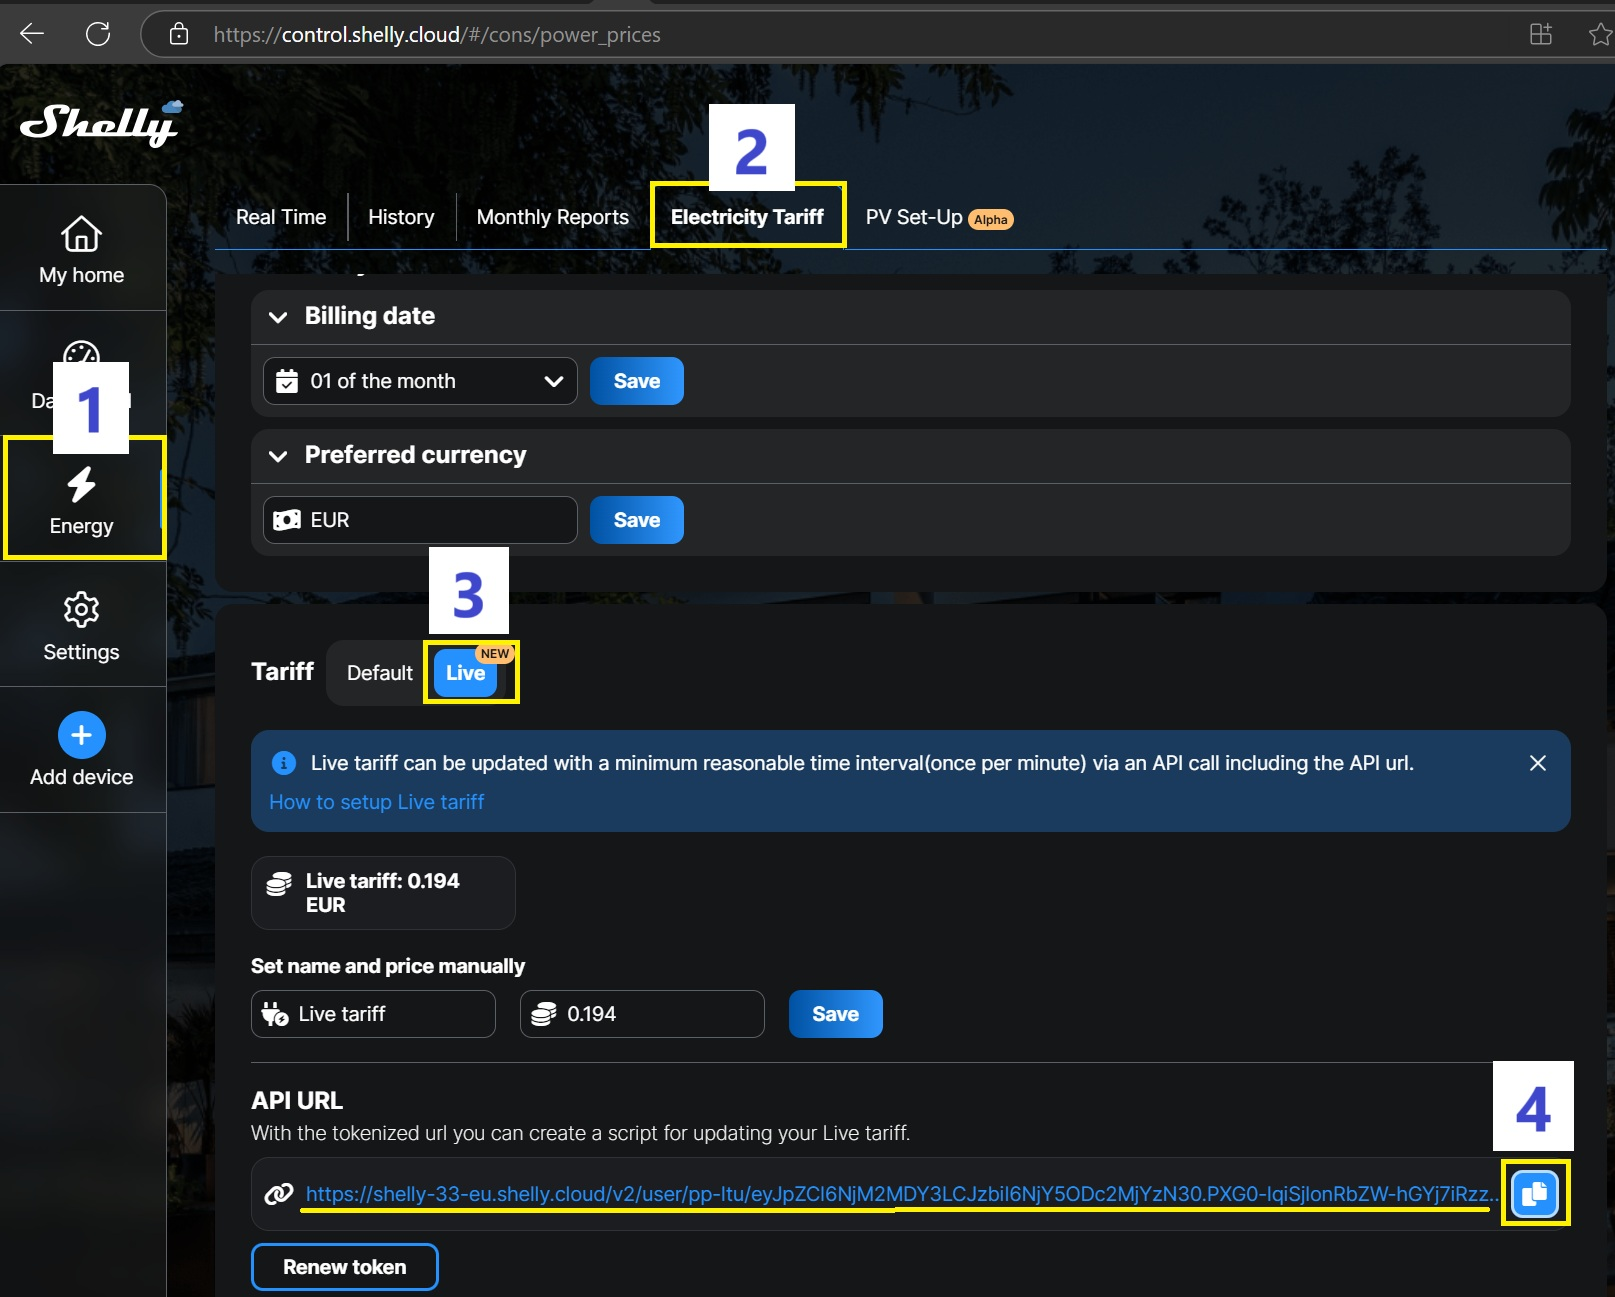
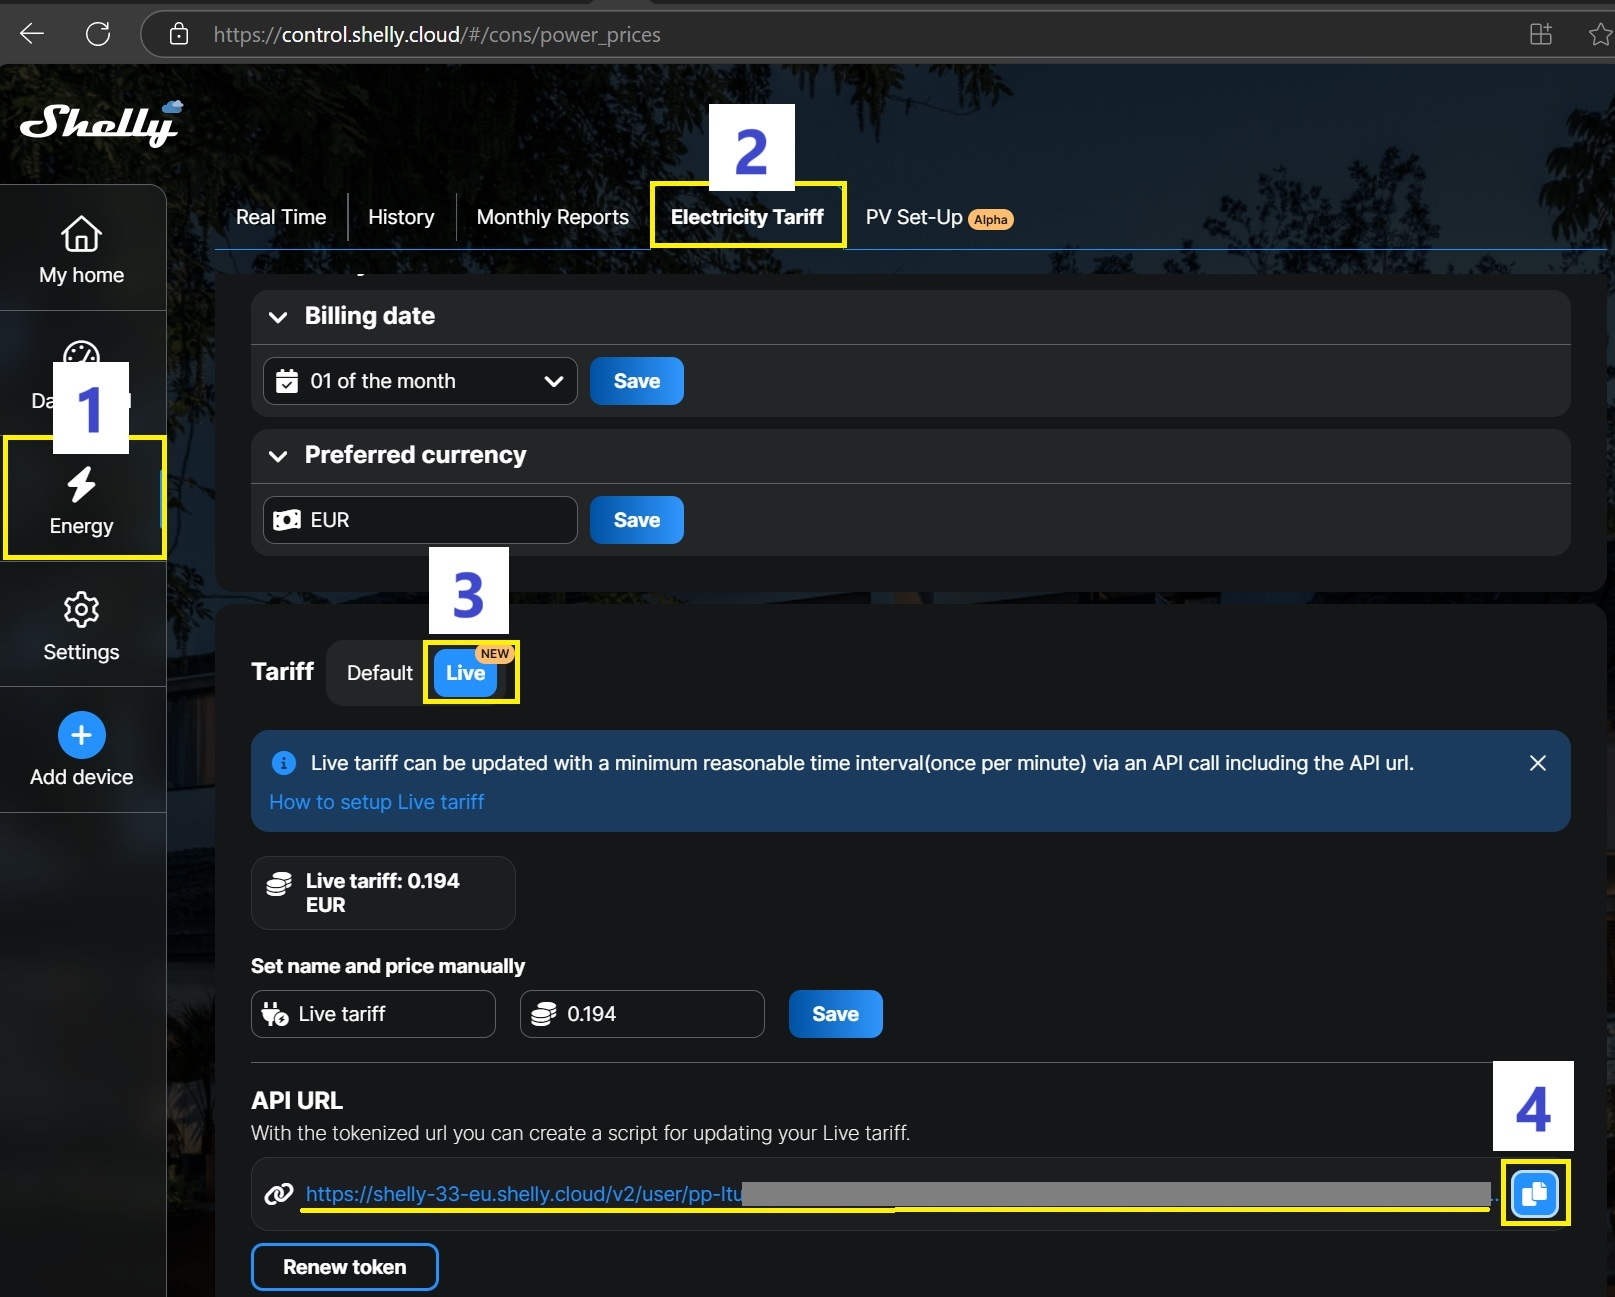
Update Readme

Changed region(s): [[0.4644, 0.8944, 0.9288, 0.9561]]

diff --git a/README.md b/README.md
@@ -1,13 +1,11 @@
 # Shelly Live Tariff Script
 
-This Shelly script is designed to retrieve energy market prices from Elering and update Shelly cloud energy price Live Tariff. 
-
-The script executes daily after 23:00 to send Live Tariffs for the following day.
+This Shelly script automates electricity tariffs in the Shelly cloud by retrieving energy market prices from Elering and updating the Live Tariff hourly.
 
 ## Features
 
 - Retrieves electricity market prices from Elering.
-- Updates Shelly cloud with Live Tariffs.
+- Updates Shelly cloud with Live Tariffs hourly.
 - Supports multiple network packages and countries.
 - Stores user settings in Shelly KVS or Virtual components.
 - Automatically starts on boot.
@@ -19,7 +17,11 @@ The script executes daily after 23:00 to send Live Tariffs for the following day
    - `networkPacket`: Choose the appropriate network package (e.g., `VORK2`, `Partner24`, etc.).
    - `country`: Set the country code (e.g., `ee` for Estonia, `fi` for Finland, etc.).
    - `apiUrl`: Set your Shelly Cloud token.
-
+3. Configure Shelly cloud to use Live Tariff
+   - Open Shelly web portal
+   - Select Energy -> Electricity Tariff
+   - Under Tariff select Live
+   - Copy API URL
 
 <img src="images/EnableShellyLiveTariff.jpg" alt="Enable Shelly Live Tariff" width="750">
 
@@ -50,10 +52,6 @@ The script supports the following network packages from [Elektrilevi](https://el
 - `fi` (Finland)
 - `lv` (Latvia)
 - `lt` (Lithuania)
-
-## License
-
-This project is licensed under the MIT License. See the [LICENSE](LICENSE) file for details.
 
 ## Author
 
